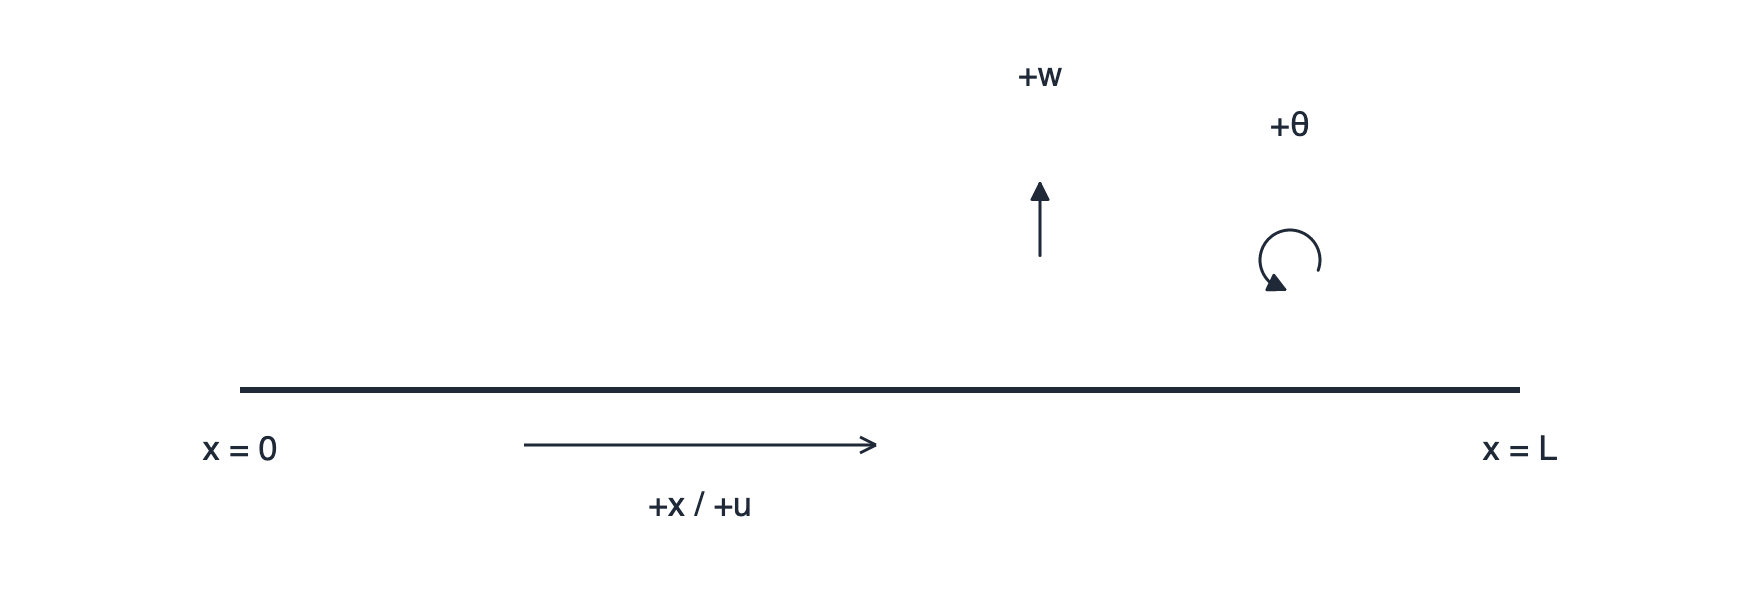
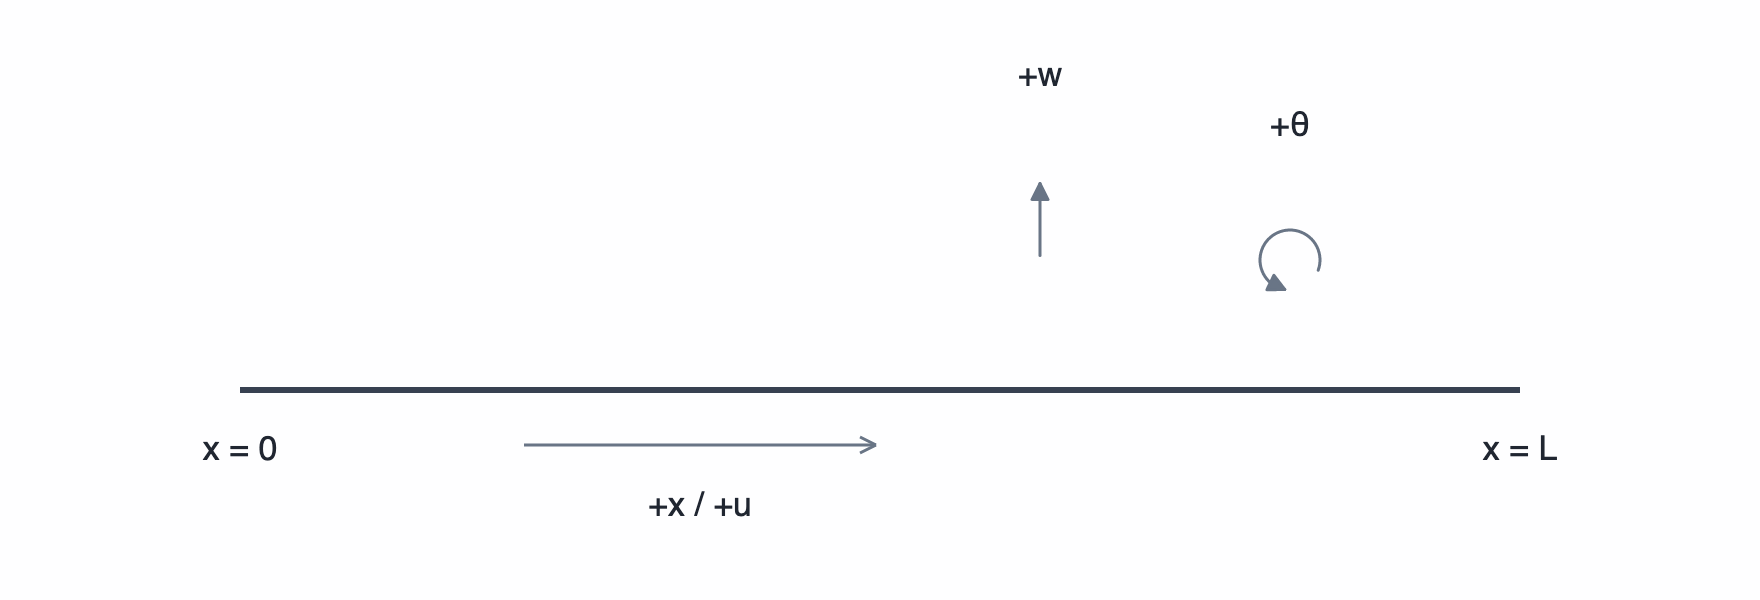
fix: correct section error history and help asset integration

diff --git a/tools/SpanDraft.HelpAssets/Program.cs b/tools/SpanDraft.HelpAssets/Program.cs
@@ -22,7 +22,6 @@ using SpanDraft.Desktop.ViewModels;
 
 internal static class Program
 {
-    private static readonly IBrush Ink = new SolidColorBrush(Color.Parse("#1F2937"));
     [STAThread]
     public static int Main(string[] args)
     {
@@ -68,16 +67,18 @@ internal static class Program
     {
         protected override object? Invoke(MethodInfo? method, object?[]? args) => null;
     }
+    private static IBrush AppBrush(string key)
+    {
+        if (Application.Current!.Resources.TryGetResource(key, ThemeVariant.Light, out var value) && value is IBrush brush)
+            return brush;
+        throw new InvalidOperationException($"Missing App drawing brush: {key}");
+    }
     private static Canvas Page(double width, double height)
     {
-        var page = new Canvas { Width = width, Height = height, Background = Brushes.White };
+        var page = new Canvas { Width = width, Height = height, Background = AppBrush("CanvasBackground") };
         // Detached controls have no TopLevel resource host. Supply the App's actual light-theme brushes.
-        foreach (string key in new[] { "CanvasBackground", "TextSecondary", "TextPrimary", "Border", "AxisStroke", "Accent", "SurfacePressed", "AppBackground" })
-        {
-            if (!Application.Current!.Resources.TryGetResource(key, ThemeVariant.Light, out var value))
-                throw new InvalidOperationException($"Missing App drawing resource: {key}");
-            page.Resources.Add(key, value);
-        }
+        foreach (string key in new[] { "CanvasBackground", "TextSecondary", "TextPrimary", "BeamStroke", "Border", "AxisStroke", "Accent", "Error", "SurfacePressed", "AppBackground" })
+            page.Resources.Add(key, AppBrush(key));
         return page;
     }
     private static void Add(Canvas page, Control control, double x, double y, double width, double height)
@@ -85,15 +86,15 @@ internal static class Program
         control.Width = width; control.Height = height; Canvas.SetLeft(control, x); Canvas.SetTop(control, y); page.Children.Add(control);
     }
     private static void Text(Canvas page, string text, double x, double y, double width = 200, double size = 17) =>
-        Add(page, new TextBlock { Text = text, FontSize = size, Foreground = Ink, TextAlignment = TextAlignment.Center }, x, y, width, 52);
+        Add(page, new TextBlock { Text = text, FontSize = size, Foreground = AppBrush("TextPrimary"), TextAlignment = TextAlignment.Center }, x, y, width, 52);
     private static EditorDocument Document() => new(Length.FromMeters(2), MaterialCatalogCodec.LoadBuiltIn().Find("S235JR")!.Material,
         new RectangleSectionGeometry(Length.FromMillimeters(40), Length.FromMillimeters(80)), SectionAxisDesignation.Y);
     private static BeamCanvas Beam(EditorDocument document, double width, double height, double beamY)
     {
         var frame = new BeamLayoutFrame(StationLayout.Compute(document.Length.Meters, 60, width - 60, []), new(width, height, beamY));
         var scene = BeamRenderState.Create(document, frame, text => SchematicText.Measure(text, Typeface.Default, 13));
-        return new() { Scene = scene with { Annotations = [] }, BeamBrush = Ink, CanvasBackgroundBrush = Brushes.White,
-            AccentBrush = Ink, GhostBrush = Ink, ErrorBrush = Ink };
+        return new() { Scene = scene with { Annotations = [] }, BeamBrush = AppBrush("BeamStroke"), CanvasBackgroundBrush = AppBrush("CanvasBackground"),
+            AccentBrush = AppBrush("Accent"), GhostBrush = AppBrush("AxisStroke"), ErrorBrush = AppBrush("Error") };
     }
     private static Canvas Example()
     {
@@ -147,8 +148,8 @@ internal static class Program
         Add(page, Beam(Document(), 760, 160, 105), 60, 90, 760, 160);
         Text(page, "x = 0", 70, 217, 100); Text(page, "x = L", 710, 217, 100);
         Add(page, new AxialArrow(), 260, 210, 180, 25); Text(page, "+x / +u", 290, 245, 120);
-        Add(page, new Glyph(PointLoadKind.Force, 1), 495, 75, 50, 56); Text(page, "+w", 465, 30, 110);
-        Add(page, new Glyph(PointLoadKind.Moment, 1), 615, 100, 60, 60); Text(page, "+θ", 590, 55, 110);
+        Add(page, new Glyph(PointLoadKind.Force, 1, "AxisStroke"), 495, 75, 50, 56); Text(page, "+w", 465, 30, 110);
+        Add(page, new Glyph(PointLoadKind.Moment, 1, "AxisStroke"), 615, 100, 60, 60); Text(page, "+θ", 590, 55, 110);
         return page;
     }
     private static Canvas Section()
@@ -176,20 +177,20 @@ internal static class Program
         return page;
     }
     // Help composes existing engineering glyphs; only the axial annotation has its own small arrow.
-    private sealed class Glyph(PointLoadKind kind, double value) : Control
+    private sealed class Glyph(PointLoadKind kind, double value, string brushKey = "BeamStroke") : Control
     {
         public override void Render(DrawingContext context)
         {
             double y = kind == PointLoadKind.Force ? Bounds.Height : Bounds.Height / 2;
             var visual = new PointLoadVisual(null, new(Length.FromMeters(0), kind, value), "", Bounds.Width / 2, y, false);
-            PointLoadSymbol.Draw(context, new(kind, visual.X, visual.Y, [visual]), Ink);
+            PointLoadSymbol.Draw(context, new(kind, visual.X, visual.Y, [visual]), AppBrush(brushKey));
         }
     }
     private sealed class AxialArrow : Control
     {
         public override void Render(DrawingContext context)
         {
-            var pen = new Pen(Ink, SchematicMetrics.SymbolStrokeWidth);
+            var pen = new Pen(AppBrush("AxisStroke"), SchematicMetrics.SymbolStrokeWidth);
             double y = Bounds.Height / 2, end = Bounds.Width - 2;
             context.DrawLine(pen, new(2, y), new(end, y));
             context.DrawLine(pen, new(end - 8, y - 4), new(end, y));

diff --git a/tests/SpanDraft.Tests/SectionDefinitionHistoryTests.cs b/tests/SpanDraft.Tests/SectionDefinitionHistoryTests.cs
@@ -38,6 +38,58 @@ public sealed class SectionDefinitionHistoryTests
         Assert.Equal(.015, vm.Section!.Area.SquareMeters, 10);
     }
     [Fact]
+    public void GeometryErrorIsAConfirmedHistoryStepAndCanBeCorrectedAfterRedo()
+    {
+        var vm = new SectionDefinitionViewModel(initialState: new(
+            new RectangularHollowSectionGeometry(M(.1), M(.15), M(.005), M(0)), SectionAxisDesignation.Z, "Tube"));
+        var thickness = Input(vm, "t"); thickness.PendingText = "80";
+        Assert.False(thickness.Commit());
+        AssertGeometryError(); Assert.True(vm.CanUndo);
+
+        Assert.True(vm.Undo()); AssertValid(.005, SectionAxisDesignation.Z); Assert.False(vm.CanUndo);
+        Assert.True(vm.Redo()); AssertGeometryError(); Assert.False(vm.CanRedo);
+
+        Commit(vm, "t", "6"); AssertValid(.006, null);
+        Assert.True(vm.Undo()); AssertGeometryError();
+        Assert.True(vm.Redo()); AssertValid(.006, null);
+        Assert.True(vm.Undo()); AssertGeometryError();
+        Assert.True(vm.Undo()); AssertValid(.005, SectionAxisDesignation.Z); Assert.False(vm.CanUndo);
+
+        void AssertGeometryError()
+        {
+            var input = Input(vm, "t");
+            Assert.Equal(.08, input.ConfirmedValue); Assert.Equal("80", input.PendingText);
+            Assert.True(input.HasError); Assert.False(input.HasParseError); Assert.False(input.IsPending);
+            Assert.Null(vm.Section); Assert.False(vm.HasValidSection); Assert.False(vm.CanConfirm);
+            Assert.Equal("Tube", vm.DisplayName); Assert.Null(vm.SelectedAxis);
+        }
+        void AssertValid(double value, SectionAxisDesignation? axis)
+        {
+            var section = Assert.IsType<RectangularHollowSectionGeometry>(vm.Section);
+            Assert.Equal(.1, section.Width.Meters); Assert.Equal(.15, section.Height.Meters);
+            Assert.Equal(value, section.WallThickness.Meters); Assert.Equal(0, section.OuterRadius.Meters);
+            Assert.Equal("Tube", vm.DisplayName); Assert.Equal(axis, vm.SelectedAxis);
+            Assert.All(vm.Parameters, input => { Assert.False(input.IsPending); Assert.False(input.HasError); Assert.False(input.HasParseError); });
+        }
+    }
+    [Fact]
+    public void NewConfirmedChangeFromGeometryErrorReplacesOnlyTheRedoBranch()
+    {
+        var vm = new SectionDefinitionViewModel(initialState: new(
+            new RectangularHollowSectionGeometry(M(.1), M(.15), M(.005), M(0)), SectionAxisDesignation.Z));
+        Input(vm, "t").PendingText = "80"; Assert.False(Input(vm, "t").Commit());
+        Commit(vm, "t", "6"); Assert.True(vm.Undo());
+        Assert.Null(vm.Section); Assert.Equal(.08, Input(vm, "t").ConfirmedValue); Assert.True(vm.CanRedo);
+
+        Commit(vm, "t", "7"); Assert.False(vm.CanRedo); Assert.False(vm.Redo());
+        Assert.True(vm.Undo()); Assert.Null(vm.Section); Assert.Equal(.08, Input(vm, "t").ConfirmedValue);
+        Assert.False(Input(vm, "t").HasParseError); Assert.True(Input(vm, "t").HasError);
+        Assert.True(vm.Undo()); Assert.Equal(.005, Input(vm, "t").ConfirmedValue); Assert.True(vm.HasValidSection);
+        Assert.False(vm.CanUndo); Assert.True(vm.Redo()); Assert.Null(vm.Section);
+        Assert.True(vm.Redo()); Assert.Equal(.007, Input(vm, "t").ConfirmedValue); Assert.True(vm.HasValidSection);
+        Assert.False(vm.CanRedo);
+    }
+    [Fact]
     public void GalleryNavigationIsNotAHistoryStepAndEmptySelectionCanBeRestored()
     {
         var empty = new SectionDefinitionViewModel(); empty.SelectForm(SectionEditorType.Rectangle);
@@ -103,7 +155,10 @@ public sealed class SectionDefinitionHistoryTests
         var vm = Rectangle(); Commit(vm, "h", "150"); Assert.True(vm.Undo());
         Input(vm, "h").PendingText = "bad"; Assert.False(vm.CanRedo); Assert.False(vm.CanUndo);
         Assert.False(Input(vm, "h").Commit()); Assert.True(vm.CanRedo);
+        Assert.True(Input(vm, "h").HasParseError); Assert.False(Input(vm, "h").LastCommitChangedValue);
+        Assert.Equal(.1, Input(vm, "h").ConfirmedValue); Assert.False(vm.CanUndo);
         Commit(vm, "h", "100"); Assert.False(vm.CanUndo); Assert.True(vm.CanRedo);
+        Assert.False(Input(vm, "h").HasParseError); Assert.True(vm.HasValidSection);
         typeof(SectionDefinitionViewModel).GetMethod("ApplyResultPresentation", System.Reflection.BindingFlags.Instance | System.Reflection.BindingFlags.NonPublic)!
             .Invoke(vm, [ResultPresentationOptions.Default]);
         vm.HighlightedParameter = "b"; Assert.True(vm.CanRedo); Assert.False(vm.CanUndo);

diff --git a/src/SpanDraft.Desktop/ViewModels/SectionDefinitionViewModel.cs b/src/SpanDraft.Desktop/ViewModels/SectionDefinitionViewModel.cs
@@ -306,7 +306,8 @@ public sealed partial class SectionDefinitionViewModel : ObservableObject
                     if (input.Key == "A" || configuration.ToString().Contains(input.Key[^1])) Current.ManualAxisSelections[configuration] = null;
             }
             Recalculate(input);
-            if (before is not null && !Parameters.Any(p => p.HasError)) RecordHistory(before);
+            // A confirmed SI-value change is undoable even when its geometry is invalid.
+            if (before is not null) RecordHistory(before);
         }
         else
         {

diff --git a/scripts/build-help.cs b/scripts/build-help.cs
@@ -43,6 +43,7 @@ try
     }
     foreach (var name in names) RequireFile(Path.Combine(site, "assets", name + ".png"));
     RequireFile(Path.Combine(site, "js", "iframe-worker-shim.js"));
+    RequireFile(Path.Combine(site, "js", "iframe-worker-LICENSE.txt"));
     Console.WriteLine("Offline help validated: six PNGs, HTML, local runtime resources, no obsolete SVG references.");
     return 0;
 }

diff --git a/help/docs/erste-schritte/ueberblick.md b/help/docs/erste-schritte/ueberblick.md
@@ -38,7 +38,7 @@ Bereits vorhandene Objekte können Sie auswählen und bearbeiten. Sie können Po
 
 ## Rückgängig, Einstellungen und Speicherung
 
-- **Bearbeiten → Rückgängig / Wiederholen** nimmt bestätigte Projektänderungen zurück beziehungsweise stellt sie wieder her.
+- **Bearbeiten → Rückgängig / Wiederholen** betrifft im Balkeneditor bestätigte Projektänderungen und im Querschnittseditor bestätigte Änderungen des aktuellen Querschnittsentwurfs. Noch nicht bestätigte Texteingaben verwenden das normale Textfeld-Undo.
 - Unter **Bearbeiten → Einstellungen…** legen Sie Einheiten und die Darstellung numerischer Ergebnisse fest. Das betrifft die Anzeige, nicht die Berechnung.
 - Beim Verlassen eines ungespeicherten Projekts fragt SpanDraft, ob die Änderungen gespeichert werden sollen.
 - Nach einem unerwarteten Abbruch kann SpanDraft eine lokale Wiederherstellung anbieten. Sie ersetzt nicht das normale Speichern Ihrer Projektdatei.
